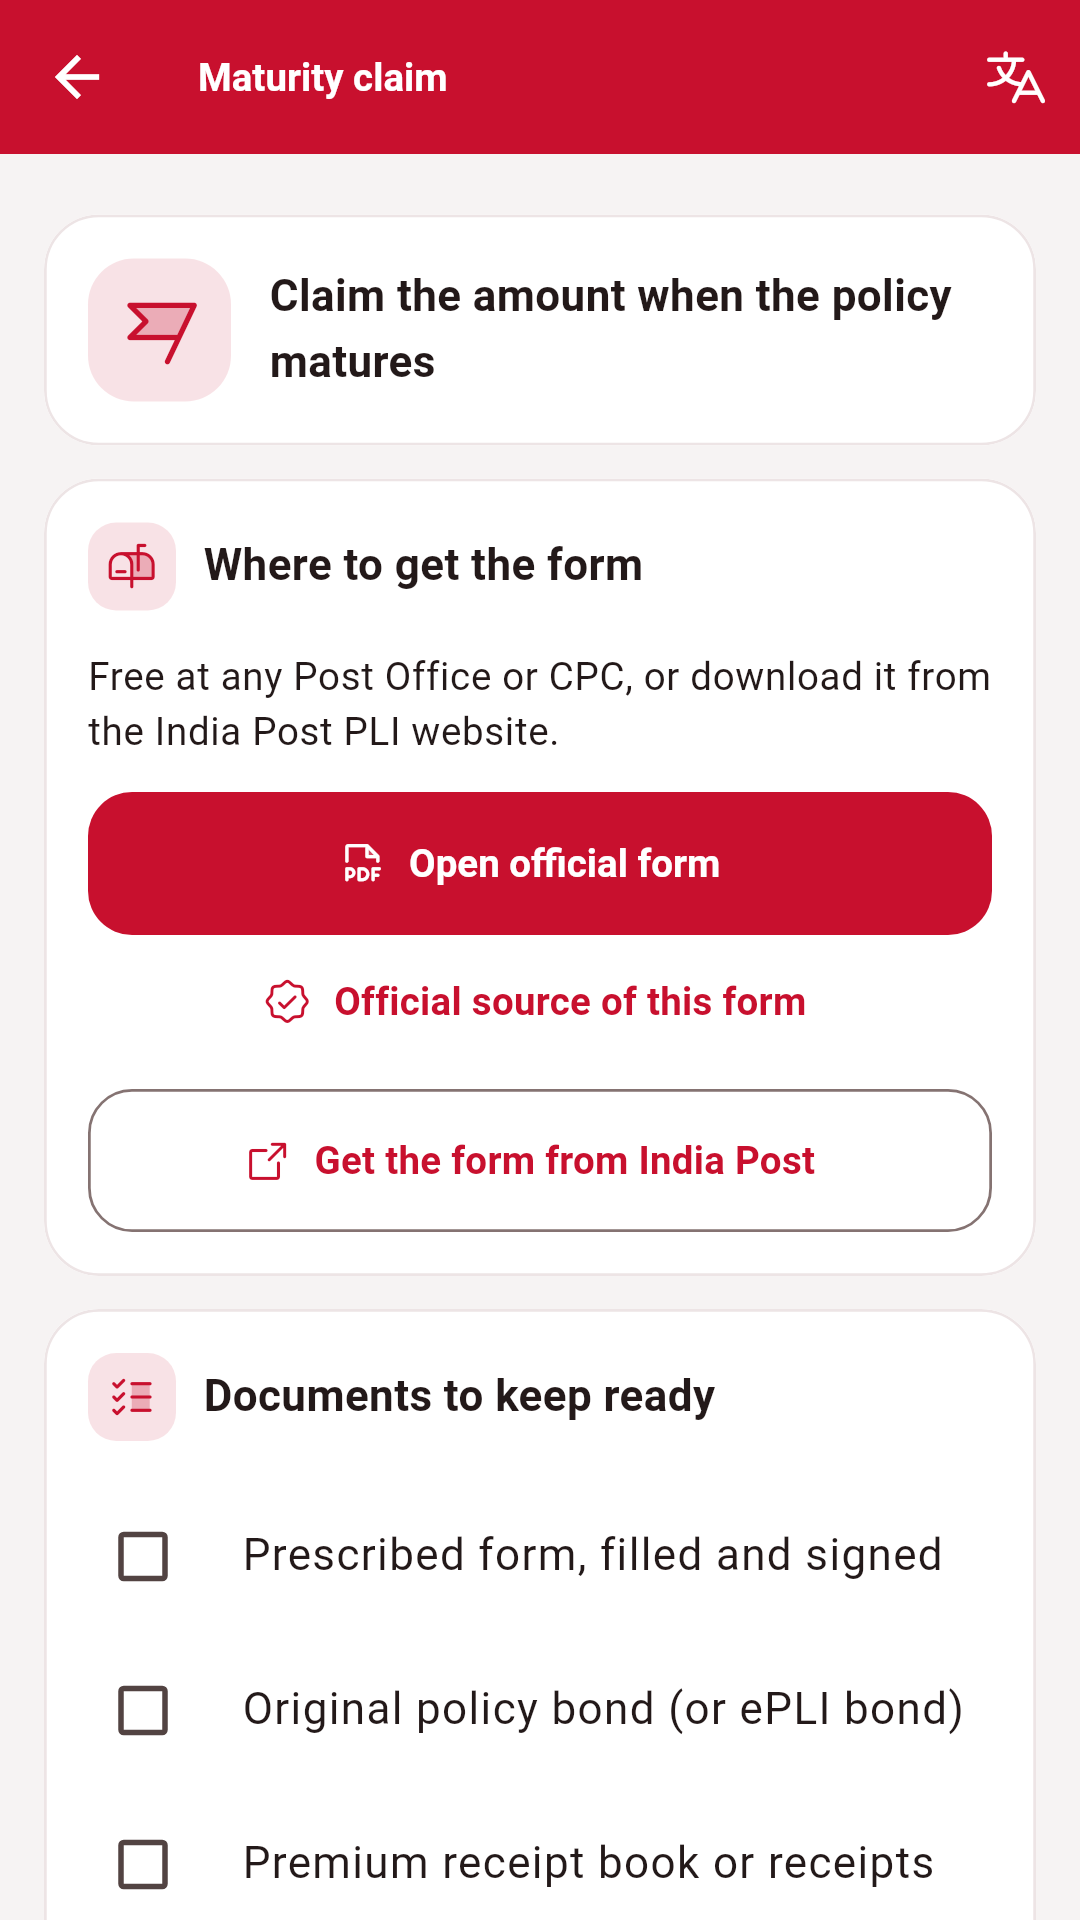
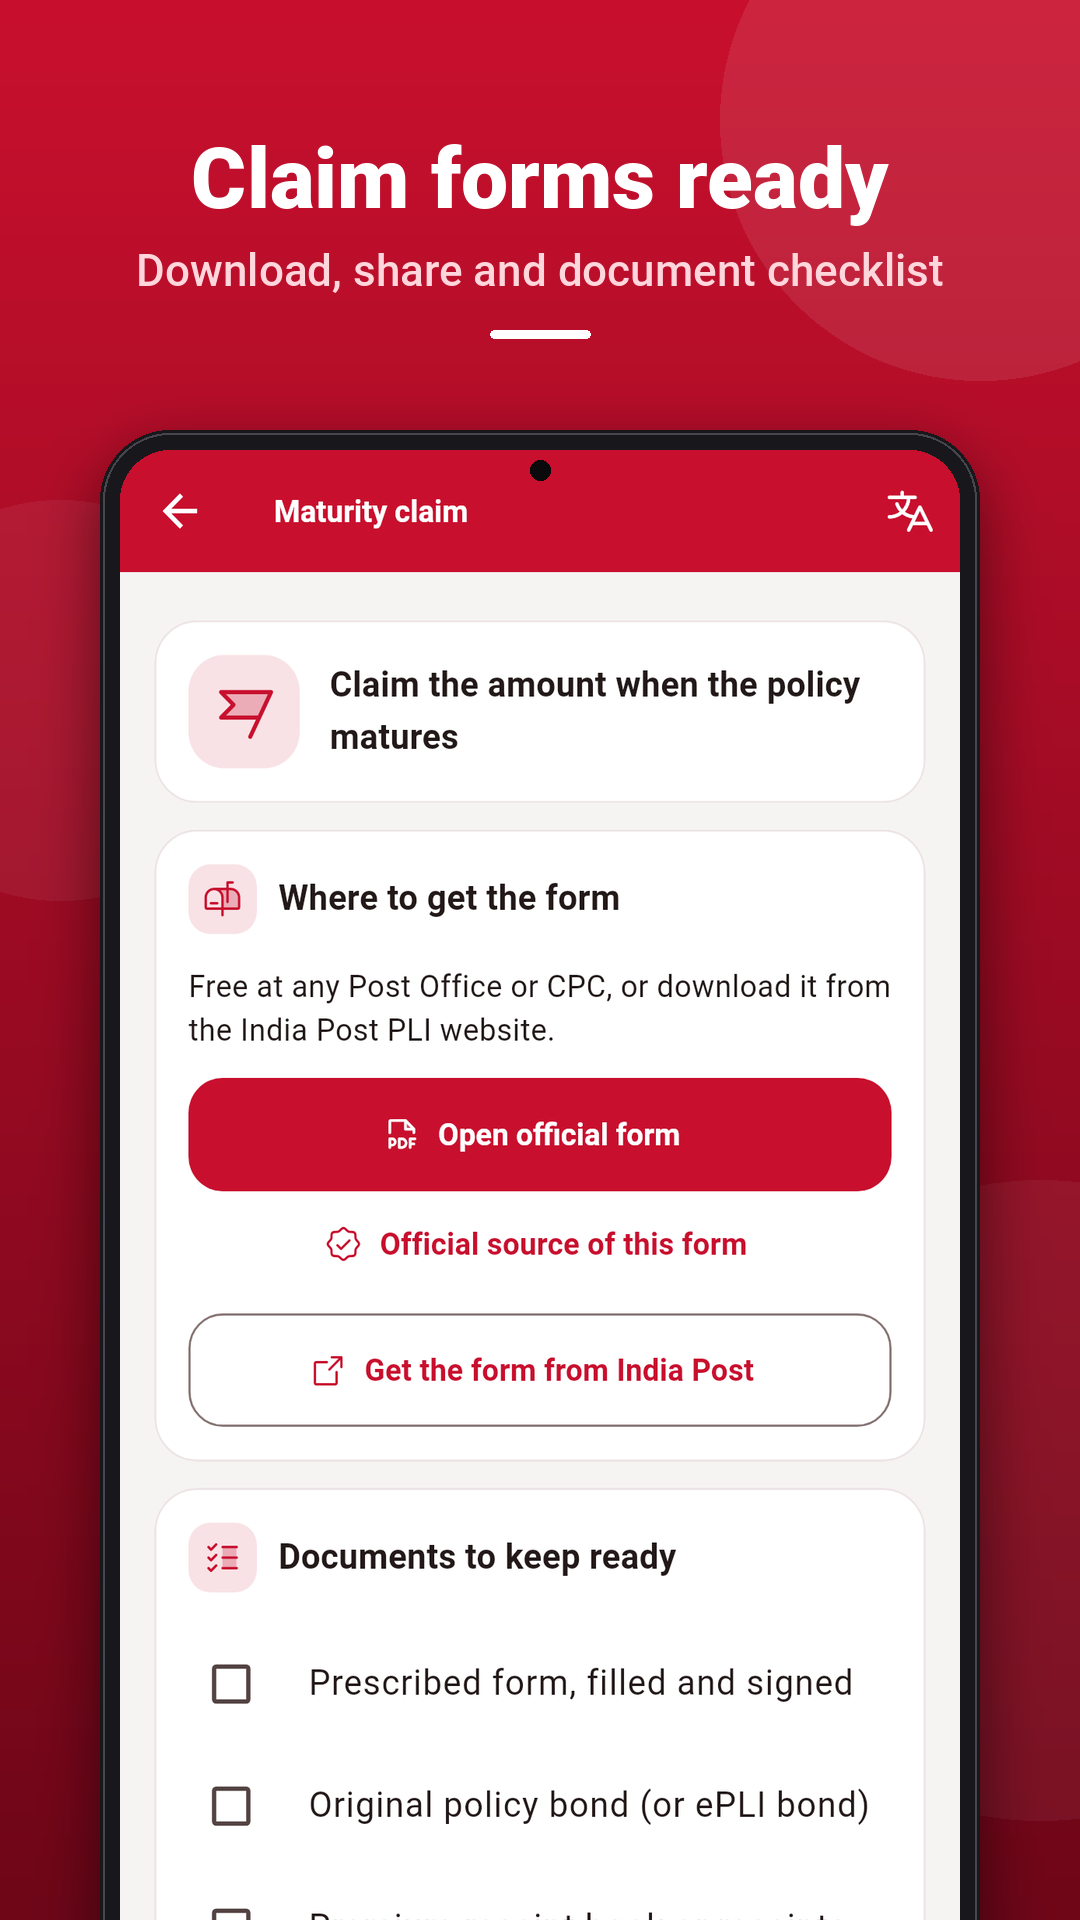
Store graphics: marketing screenshots and new feature graphic
Headline and phone frame on each screenshot; feature graphic shows the
app screens beside the icon.

Claude-Session: https://claude.ai/code/session_01EpFup4Cms6D44Vi1Sx7hLF

diff --git a/tools/make_store_assets.py b/tools/make_store_assets.py
@@ -1,7 +1,8 @@
 #!/usr/bin/env python3
 """Play Store graphics from the rendered screenshots (test_screenshots/out).
 
-- docs/store/screenshots/NN_name.png: 1080x1920 (Play allows at most 2:1).
+- docs/store/screenshots/NN_name.png: 1080x1920 marketing screenshots
+  (headline, phone frame with the app screen).
 - docs/store/feature_graphic.png: 1024x500.
 
 Usage: python3 -I tools/make_store_assets.py <Roboto-Black.ttf> <Roboto-Medium.ttf>
@@ -10,63 +11,155 @@ Render the screenshots first (see test_screenshots/screenshots_test.dart).
 import sys
 from pathlib import Path
 
-from PIL import Image, ImageDraw, ImageFont
+from PIL import Image, ImageDraw, ImageFilter, ImageFont
 
 ROOT = Path(__file__).resolve().parents[1]
 SRC = ROOT / 'test_screenshots/out'
 OUT = ROOT / 'docs/store'
+# (output name, source render, scroll offset in source px, headline, subline)
 SHOTS = [
-    ('01_home', '01b_home_full.png'),
-    ('02_premium', '02_premium_full.png'),
-    ('03_maturity', '03_maturity_sumangal_full.png'),
-    ('04_quotation', '05_quotation_full.png'),
-    ('05_compare', '04_compare_full.png'),
-    ('06_dues', '18_dues_full.png'),
-    ('07_forms', '24_form_maturity.png'),
-    ('08_official_links', '23_links.png'),
-    ('09_kannada', '09_home_kannada.png'),
+    ('01_home', '01b_home_full.png', 0,
+     'All PLI & RPLI tools', 'Premium, maturity, dues and forms'),
+    ('02_premium', '02_premium_full.png', 2380,
+     'Premium in seconds', 'Every plan, age and frequency'),
+    ('03_maturity', '03_maturity_sumangal_full.png', 2040,
+     'Bonus & maturity value', 'With survival benefit dates'),
+    ('04_quotation', '05_quotation_full.png', 1050,
+     'Share quotations', 'PDF or image on WhatsApp'),
+    ('05_compare', '04_compare_full.png', 2550,
+     'Compare plans', 'Pick the best plan for your customer'),
+    ('06_dues', '18_dues_full.png', 0,
+     'Never miss a due', 'Monthly dues and WhatsApp reminders'),
+    ('07_forms', '24_form_maturity.png', 0,
+     'Claim forms ready', 'Download, share and document checklist'),
+    ('08_official_links', '23_links.png', 0,
+     'Official links', 'PLI portal, DigiLocker, toll-free helpline'),
+    ('09_kannada', '09_home_kannada.png', 0,
+     '13 Indian languages', 'Kannada, Hindi, Tamil, Telugu and more'),
 ]
-RED, MAROON, WHITE = (200, 16, 46), (120, 8, 28), (255, 255, 255)
+RED, MAROON, WHITE = (200, 16, 46), (110, 6, 24), (255, 255, 255)
+PINK = (255, 214, 220)
+APP_BAR = 160  # source px of the app bar kept at the top of scrolled shots
 
 
-def screenshots():
+def gradient(w, h, a, b):
+    img = Image.new('RGB', (w, h))
+    d = ImageDraw.Draw(img)
+    for y in range(h):
+        t = y / h
+        d.line([(0, y), (w, y)], fill=tuple(int(a[i] + (b[i] - a[i]) * t) for i in range(3)))
+    return img
+
+
+def decorate(img, circles):
+    """Soft translucent circles for depth."""
+    layer = Image.new('RGBA', img.size, (0, 0, 0, 0))
+    d = ImageDraw.Draw(layer)
+    for cx, cy, r, alpha in circles:
+        d.ellipse([cx - r, cy - r, cx + r, cy + r], fill=(255, 255, 255, alpha))
+    img.paste(layer, (0, 0), layer)
+
+
+def screen_crop(src, offset, height):
+    """App bar + the screen scrolled to offset, height source px tall."""
+    im = Image.open(SRC / src).convert('RGB')
+    if offset == 0:
+        return im.crop((0, 0, 1080, min(height, im.height)))
+    out = Image.new('RGB', (1080, height), WHITE)
+    out.paste(im.crop((0, 0, 1080, APP_BAR)), (0, 0))
+    out.paste(im.crop((0, offset, 1080, min(im.height, offset + height - APP_BAR))), (0, APP_BAR))
+    return out
+
+
+def phone(screen_w, screen_h, screen, bezel=20, radius=70):
+    """A phone body with the screen inset; returns RGBA."""
+    w, h = screen_w + 2 * bezel, screen_h + 2 * bezel
+    body = Image.new('RGBA', (w, h), (0, 0, 0, 0))
+    d = ImageDraw.Draw(body)
+    d.rounded_rectangle([0, 0, w - 1, h - 1], radius=radius, fill=(24, 24, 28, 255))
+    d.rounded_rectangle([3, 3, w - 4, h - 4], radius=radius - 3, outline=(70, 70, 78, 255), width=2)
+    scr = screen.resize((screen_w, screen_h), Image.LANCZOS).convert('RGBA')
+    m = Image.new('L', scr.size, 0)
+    ImageDraw.Draw(m).rounded_rectangle([0, 0, screen_w - 1, screen_h - 1], radius=radius - bezel, fill=255)
+    body.paste(scr, (bezel, bezel), m)
+    # Camera hole.
+    cx = w // 2
+    r = max(4, bezel // 2)
+    d.ellipse([cx - r, bezel + r, cx + r, bezel + 3 * r], fill=(10, 10, 12, 255))
+    return body
+
+
+def place_with_shadow(canvas, item, x, y, blur=30, alpha=130):
+    shadow = Image.new('RGBA', canvas.size, (0, 0, 0, 0))
+    a = item.split()[3].point(lambda v: alpha if v else 0)
+    shadow.paste((0, 0, 0, 255), (x, y + 24), a)
+    shadow = shadow.filter(ImageFilter.GaussianBlur(blur))
+    canvas.paste(shadow, (0, 0), shadow)
+    canvas.paste(item, (x, y), item)
+
+
+def centered(d, y, text, font, fill, w):
+    tw = d.textlength(text, font=font)
+    d.text(((w - tw) / 2, y), text, font=font, fill=fill)
+
+
+def screenshots(black, medium):
     (OUT / 'screenshots').mkdir(parents=True, exist_ok=True)
-    for name, src in SHOTS:
-        im = Image.open(SRC / src).convert('RGB')
-        im.crop((0, 0, 1080, min(1920, im.height))).save(OUT / 'screenshots' / f'{name}.png', optimize=True)
+    W, H = 1080, 1920
+    head, sub = ImageFont.truetype(black, 84), ImageFont.truetype(medium, 44)
+    screen_w = 840
+    scale = screen_w / 1080
+    top = 430
+    screen_h = H - top  # the phone runs off the bottom edge
+    for name, src, offset, title, line in SHOTS:
+        img = gradient(W, H, RED, MAROON).convert('RGBA')
+        decorate(img, [(980, 120, 260, 22), (60, 700, 200, 14), (1040, 1500, 320, 12)])
+        d = ImageDraw.Draw(img)
+        centered(d, 130, title, head, WHITE, W)
+        centered(d, 245, line, sub, PINK, W)
+        d.rounded_rectangle([W / 2 - 50, 330, W / 2 + 50, 338], radius=4, fill=(255, 255, 255, 180))
+        screen = screen_crop(src, offset, int(screen_h / scale) + 40)
+        ph = phone(screen_w, screen_h + 60, screen)
+        place_with_shadow(img, ph, (W - ph.width) // 2, top)
+        img.convert('RGB').save(OUT / 'screenshots' / f'{name}.png', optimize=True)
 
 
 def feature_graphic(black, medium):
     w, h = 1024, 500
-    img = Image.new('RGB', (w, h))
+    img = gradient(w, h, RED, MAROON).convert('RGBA')
+    decorate(img, [(900, 40, 220, 20), (120, 520, 200, 14), (560, -40, 120, 12)])
     d = ImageDraw.Draw(img)
-    for x in range(w):  # diagonal-ish red → maroon gradient
-        t = x / w
-        d.line([(x, 0), (x, h)], fill=tuple(int(RED[i] + (MAROON[i] - RED[i]) * t) for i in range(3)))
-    # The app icon, highlighted: soft white glow, white rim, then the art.
-    from PIL import ImageFilter
-    size, x0, y0 = 290, 40, 105
+    # Icon, highlighted with a soft white glow.
+    size, x0, y0 = 150, 56, 60
     glow = Image.new('L', (w, h), 0)
-    ImageDraw.Draw(glow).rounded_rectangle([x0 - 6, y0 - 6, x0 + size + 6, y0 + size + 6], radius=72, fill=200)
-    glow = glow.filter(ImageFilter.GaussianBlur(22))
-    img.paste(Image.new('RGB', (w, h), WHITE), (0, 0), glow)
-    d = ImageDraw.Draw(img)
-    d.rounded_rectangle([x0 - 5, y0 - 5, x0 + size + 5, y0 + size + 5], radius=70, fill=WHITE)
+    ImageDraw.Draw(glow).rounded_rectangle([x0 - 6, y0 - 6, x0 + size + 6, y0 + size + 6], radius=40, fill=190)
+    glow = glow.filter(ImageFilter.GaussianBlur(16))
+    img.paste((255, 255, 255, 255), (0, 0), glow)
+    d.rounded_rectangle([x0 - 4, y0 - 4, x0 + size + 4, y0 + size + 4], radius=38, fill=WHITE)
     art = Image.open(OUT / 'icon_512.png').convert('RGBA').resize((size, size), Image.LANCZOS)
     m = Image.new('L', art.size, 0)
-    ImageDraw.Draw(m).rounded_rectangle([0, 0, size - 1, size - 1], radius=64, fill=255)
-    art.putalpha(m)
-    img.paste(art, (x0, y0), art)
-    title = ImageFont.truetype(black, 64)
-    sub = ImageFont.truetype(medium, 30)
-    d.text((370, 140), 'PLI & RPLI', font=title, fill=WHITE)
-    d.text((370, 215), 'Calculator', font=title, fill=WHITE)
-    d.text((372, 305), 'Premium • Bonus • Maturity • Dues', font=sub, fill=(255, 225, 228))
-    d.text((372, 350), 'Offline • 13 Indian languages', font=sub, fill=(255, 225, 228))
-    img.save(OUT / 'feature_graphic.png', optimize=True)
+    ImageDraw.Draw(m).rounded_rectangle([0, 0, size - 1, size - 1], radius=34, fill=255)
+    img.paste(art, (x0, y0), m)
+    title = ImageFont.truetype(black, 58)
+    d.text((56, 238), 'PLI & RPLI', font=title, fill=WHITE)
+    d.text((56, 300), 'Calculator', font=title, fill=WHITE)
+    chip = ImageFont.truetype(medium, 20)
+    x = 56
+    for label in ['Premium', 'Maturity', '13 languages']:
+        tw = d.textlength(label, font=chip)
+        d.rounded_rectangle([x, 394, x + tw + 28, 430], radius=18, fill=(255, 255, 255, 235))
+        d.text((x + 14, 400), label, font=chip, fill=RED)
+        x += tw + 38
+    d.text((58, 448), 'Works offline  •  No ads', font=ImageFont.truetype(medium, 20), fill=PINK)
+    # Two phones on the right: premium result in front, home behind.
+    back = phone(210, 430, screen_crop('01b_home_full.png', 0, 2210), bezel=8, radius=30)
+    front = phone(230, 470, screen_crop('02_premium_full.png', 3020, 2060), bezel=9, radius=32)
+    place_with_shadow(img, back, 555, 70, blur=14, alpha=110)
+    place_with_shadow(img, front, 760, 34, blur=16, alpha=140)
+    img.convert('RGB').save(OUT / 'feature_graphic.png', optimize=True)
 
 
 if __name__ == '__main__':
-    screenshots()
+    screenshots(sys.argv[1], sys.argv[2])
     feature_graphic(sys.argv[1], sys.argv[2])
     print('store assets written')
